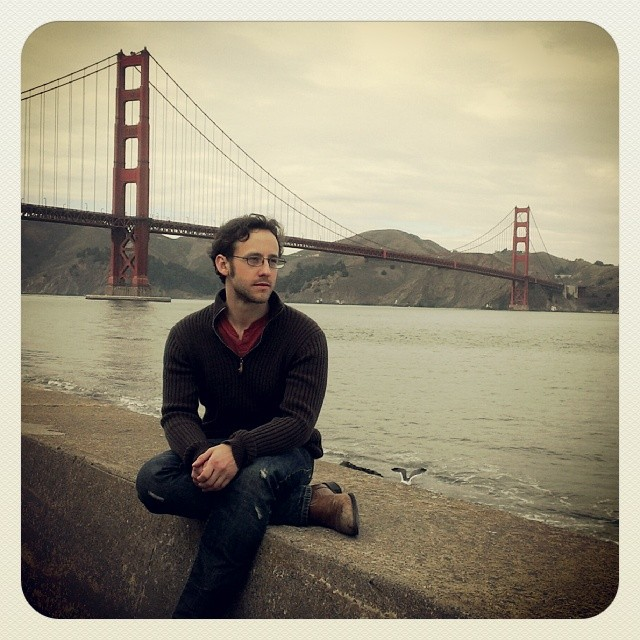
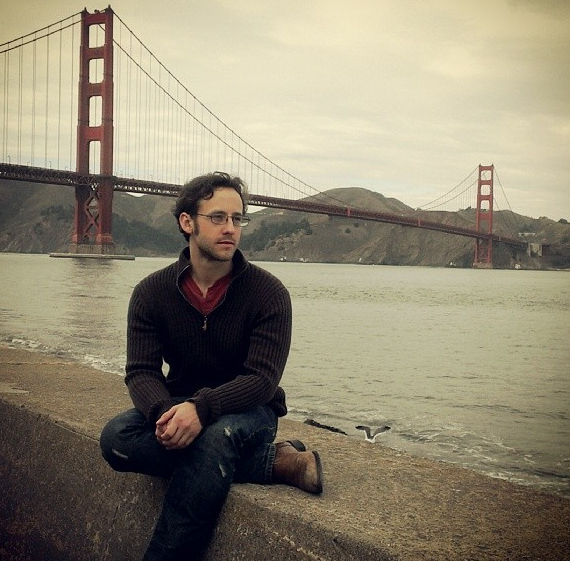
photo formatting

diff --git a/index.html b/index.html
@@ -66,7 +66,7 @@
     <div class="container">
         <div class="row">
             <div class="col-xs-3">
-                <img src="img/ggcropped.png" class="img-rounded" style="height: auto; width: 430px;">
+                <img src="img/ggportrait.jpg" class="img-rounded" style="height: auto; width: 430px;">
             </div>
             <div class="col-xs-6 col-xs-offset-2 well" >
                 <p id="aboutme">I'm currently looking for a position as a web developer in the Bay Area. Specialties and favorite tools: Ruby on Rails and Backbone.js (you can tell I like my MVC). I love Ruby; it's like writing philosophy. I'm also JavaScript and SQL fluent (primarily Postgres). RSpec and Capybara for testing. I've played around with Node.js and that was a thrill. I'd like to work on the full stack somewhere, but I'll be happy anywhere I get to tackle challenging puzzles and learn new things every day. I'd love to keep pair-programming on a regular basis, too.</p>
